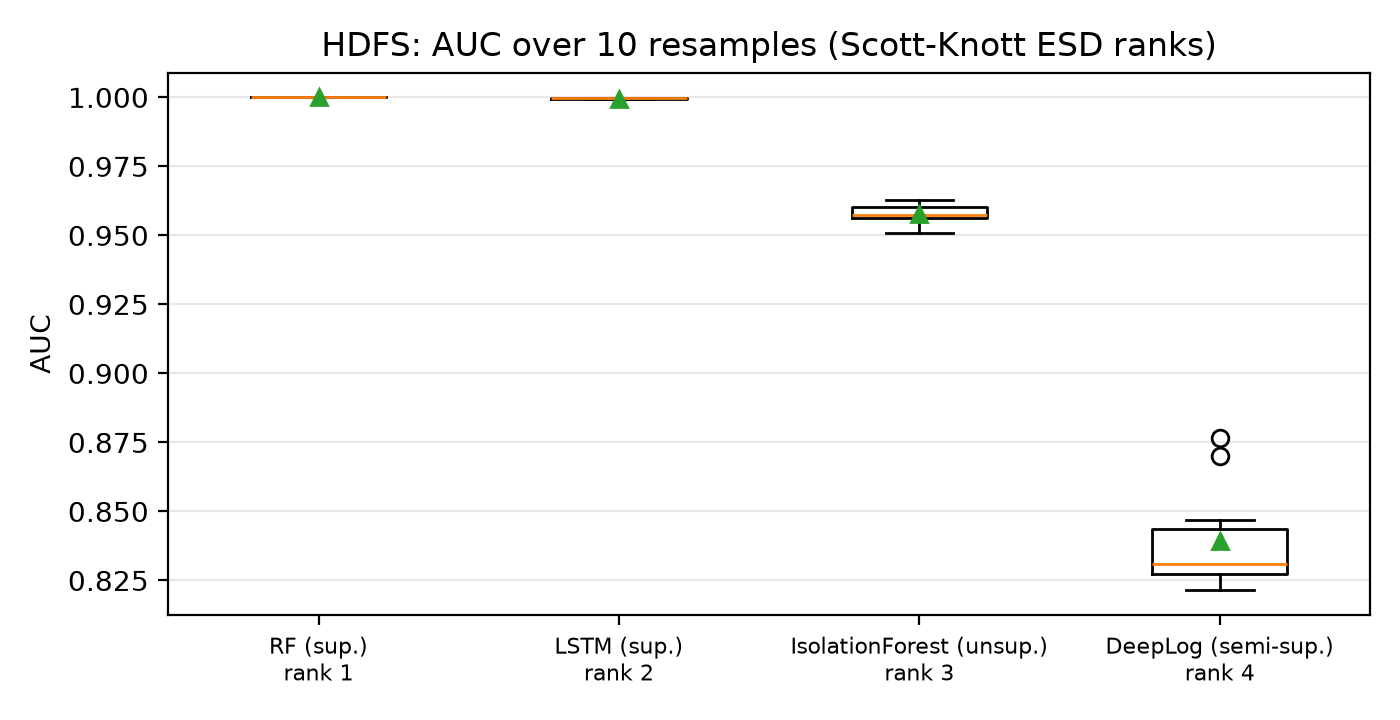
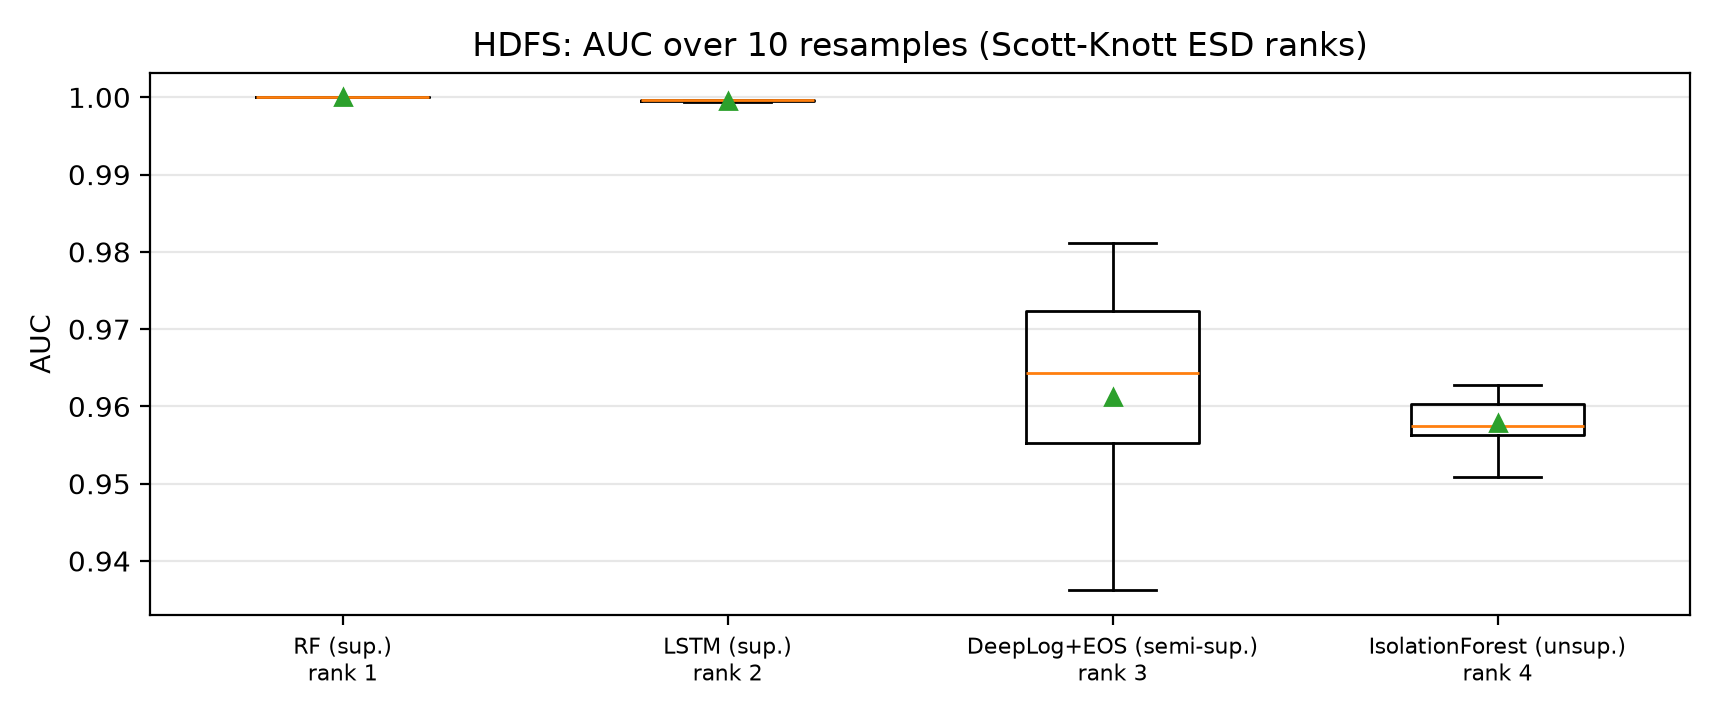
Extension: final 4-model ranking with DeepLog+EOS, ablation ranking

diff --git a/src/rank_models.py b/src/rank_models.py
@@ -36,21 +36,30 @@ def load(ds):
     return pd.DataFrame(rows)
 
 
+MAIN = ["RF (sup.)", "LSTM (sup.)", "IsolationForest (unsup.)", "DeepLog+EOS (semi-sup.)"]
+
+
 def main():
     ap = argparse.ArgumentParser()
     ap.add_argument("--dataset", default="HDFS")
     ds = ap.parse_args().dataset
     df = load(ds)
-    counts = df.groupby("model").size()
-    print("runs per model:", counts.to_dict())
+    print("runs per model:", df.groupby("model").size().to_dict())
+    # main ranking = the 4 models of the assignment; ablation adds the original DeepLog (no EOS)
+    for prefix, models in [("ranking", MAIN), ("ranking_ablation", sorted(df["model"].unique()))]:
+        print(f"\n== {prefix} ==")
+        rank(df[df["model"].isin(models)], ds, prefix)
+
+
+def rank(df, ds, prefix):
     out_dir = os.path.join(ROOT, "results", "ext")
 
     summary = []
     for metric in ["f1", "auc"]:
         wide = df.pivot(index="seed", columns="model", values=metric).dropna()
-        wide_path = os.path.join(out_dir, f"ranking_{metric}_input.csv")
+        wide_path = os.path.join(out_dir, f"{prefix}_{metric}_input.csv")
         wide.to_csv(wide_path, index=False)
-        rank_path = os.path.join(out_dir, f"ranking_{metric}.csv")
+        rank_path = os.path.join(out_dir, f"{prefix}_{metric}.csv")
         subprocess.run([RSCRIPT, os.path.join(ROOT, "src", "scott_knott.R"), wide_path, rank_path],
                        check=True, capture_output=True, text=True)
         ranks = pd.read_csv(rank_path).set_index("model")["rank"]
@@ -60,18 +69,18 @@ def main():
                             "median": round(wide[m].median(), 4), "n": len(wide)})
 
         order = ranks.sort_values().index
-        fig, ax = plt.subplots(figsize=(7, 3.6))
+        fig, ax = plt.subplots(figsize=(1.9 * len(order) + 1, 3.6))
         ax.boxplot([wide[m] for m in order], showmeans=True)
         ax.set_xticks(range(1, len(order) + 1), [f"{m}\nrank {ranks[m]}" for m in order], fontsize=8)
         ax.set_ylabel(metric.upper())
         ax.set_title(f"{ds}: {metric.upper()} over {len(wide)} resamples (Scott-Knott ESD ranks)")
         ax.grid(axis="y", alpha=0.3)
         fig.tight_layout()
-        fig.savefig(os.path.join(out_dir, f"ranking_{metric}.png"), dpi=200)
+        fig.savefig(os.path.join(out_dir, f"{prefix}_{metric}.png"), dpi=200)
         plt.close(fig)
 
     s = pd.DataFrame(summary).sort_values(["metric", "sk_rank", "mean"], ascending=[True, True, False])
-    s.to_csv(os.path.join(out_dir, "ranking_summary.csv"), index=False)
+    s.to_csv(os.path.join(out_dir, f"{prefix}_summary.csv"), index=False)
     print(s.to_string(index=False))
 
 

diff --git a/docs/slides_outline.md b/docs/slides_outline.md
@@ -60,11 +60,16 @@ Team names, LOG6309E, Fall 2025.
 - Isolation Forest on MCV (classical, unsupervised, labels never used).
 - DeepLog (deep learning, semi-supervised: normal sessions only, next-event prediction, top-g = 9).
 - DeepLog fix: original DeepLog has no end-of-session key -> sessions that stop early are never checked.
-  Adding EOS: recall 0.41 -> 0.58, AUC 0.85 -> 0.98 (seed 0).
+  Adding EOS (10 seeds): F1 0.573 -> 0.640, AUC 0.839 -> 0.961.
 
-### 9. Scott-Knott ESD ranking (4 models x 10 resamples)
-TBD after DeepLog+EOS seeds finish. Previous ranking (DeepLog without EOS):
-RF (0.998) > LSTM (0.968) > Isolation Forest (0.654) > DeepLog (0.573), same order for AUC.
+### 9. Scott-Knott ESD: supervised first, no clear winner without labels
+| Rank | F1 | AUC |
+|---|---|---|
+| 1 | RF 0.998 | RF 1.000 |
+| 2 | LSTM 0.968 | LSTM 0.9996 |
+| 3 | Isolation Forest 0.654 | DeepLog+EOS 0.961 |
+| 4 | DeepLog+EOS 0.640 | Isolation Forest 0.958 |
+- Label-free models swap ranks by metric; DeepLog+EOS is much less stable (F1 std 0.078 vs 0.020).
 [F] `results/ext/ranking_f1.png` and `ranking_auc.png`.
 
 ### 10. Can we trust the near-perfect HDFS scores?
@@ -82,7 +87,8 @@ RF (0.998) > LSTM (0.968) > Isolation Forest (0.654) > DeepLog (0.573), same ord
 ### 12. Take-home messages
 1. Simple beats complex here: RF on template counts ranks first, the paper's RQ1 finding holds.
 2. Correlation/VIF analysis: use it for tabular features, not for embeddings.
-3. Missing events are a key anomaly signal on HDFS: count-based models see them; sequence models need EOS.
+3. Missing events are a key anomaly signal on HDFS: count-based models see them; sequence models need EOS
+   (DeepLog AUC 0.84 -> 0.96 with an end-of-session key).
 4. Random splits + duplicate sequences make HDFS look easier than it is: report it, prefer AUC + resampling.
 
 ### Backup slides (only if asked)

diff --git a/docs/ext_notes.md b/docs/ext_notes.md
@@ -67,7 +67,26 @@ Results: `results/ext/ranking_summary.csv`, plots `results/ext/ranking_f1.png`, 
 | 3 | Isolation Forest + MCV (unsupervised) | 0.654 +- 0.020 | 0.958 +- 0.004 | ~0.72 | ~0.60 |
 | 4 | DeepLog (semi-supervised) | 0.573 +- 0.015 | 0.839 +- 0.019 | ~0.97 | ~0.40 |
 
-(table above = original DeepLog without EOS; final ranking with DeepLog+EOS: see below)
+(table above = original DeepLog without EOS)
+
+### FINAL ranking (assignment's 4 models; DeepLog+EOS) -> `results/ext/ranking_summary.csv`, `ranking_{f1,auc}.png`
+| SK-ESD rank | by F1 (mean +- std) | by AUC (mean +- std) |
+|---|---|---|
+| 1 | RF 0.998 +- 0.000 | RF 1.000 +- 0.000 |
+| 2 | LSTM 0.968 +- 0.014 | LSTM 0.9996 +- 0.0001 |
+| 3 | Isolation Forest 0.654 +- 0.020 | DeepLog+EOS 0.961 +- 0.015 |
+| 4 | DeepLog+EOS 0.640 +- 0.078 | Isolation Forest 0.958 +- 0.004 |
+
+DeepLog+EOS per seed: F1 0.56-0.75 (P 0.91-0.99, R 0.39-0.60), AUC 0.936-0.981. Much less stable than IF.
+Ablation with the original DeepLog (`ranking_ablation_*`): it ranks last on both metrics (F1 0.573, AUC 0.839).
+
+Reading:
+- Supervised models rank 1-2 on both metrics; RF first.
+- The two label-free models swap ranks 3/4 depending on the metric and are close (F1 0.654 vs 0.640, AUC 0.958
+  vs 0.961). IF is far more stable across resamples (F1 std 0.020 vs 0.078). Also IF's F1 rests on the
+  contamination=0.03 prior (label-free 'auto' gives 0.41), so the F1 rank 3 is fragile; the AUC order is
+  threshold-free. Honest conclusion: **no clear winner between the two label-free models**.
+- EOS is the single most important design detail for DeepLog on HDFS (AUC 0.839 -> 0.961).
 
 Wording for the report (claims kept to what the data supports):
 - "On HDFS, supervised models outperform label-free ones by a large margin (F1 gap 0.3+), although random
